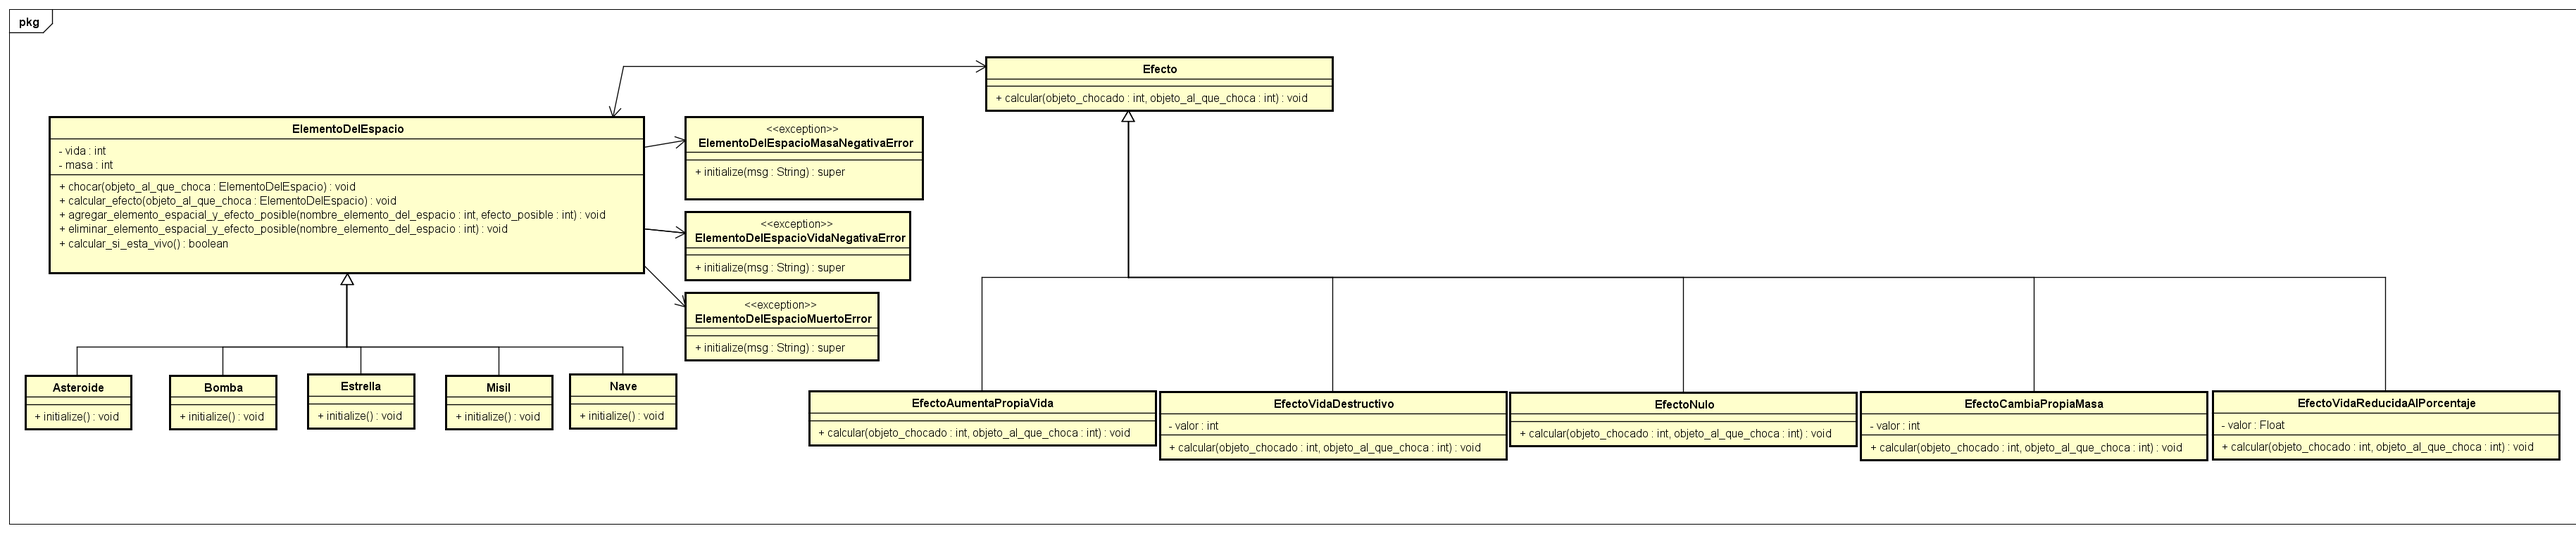
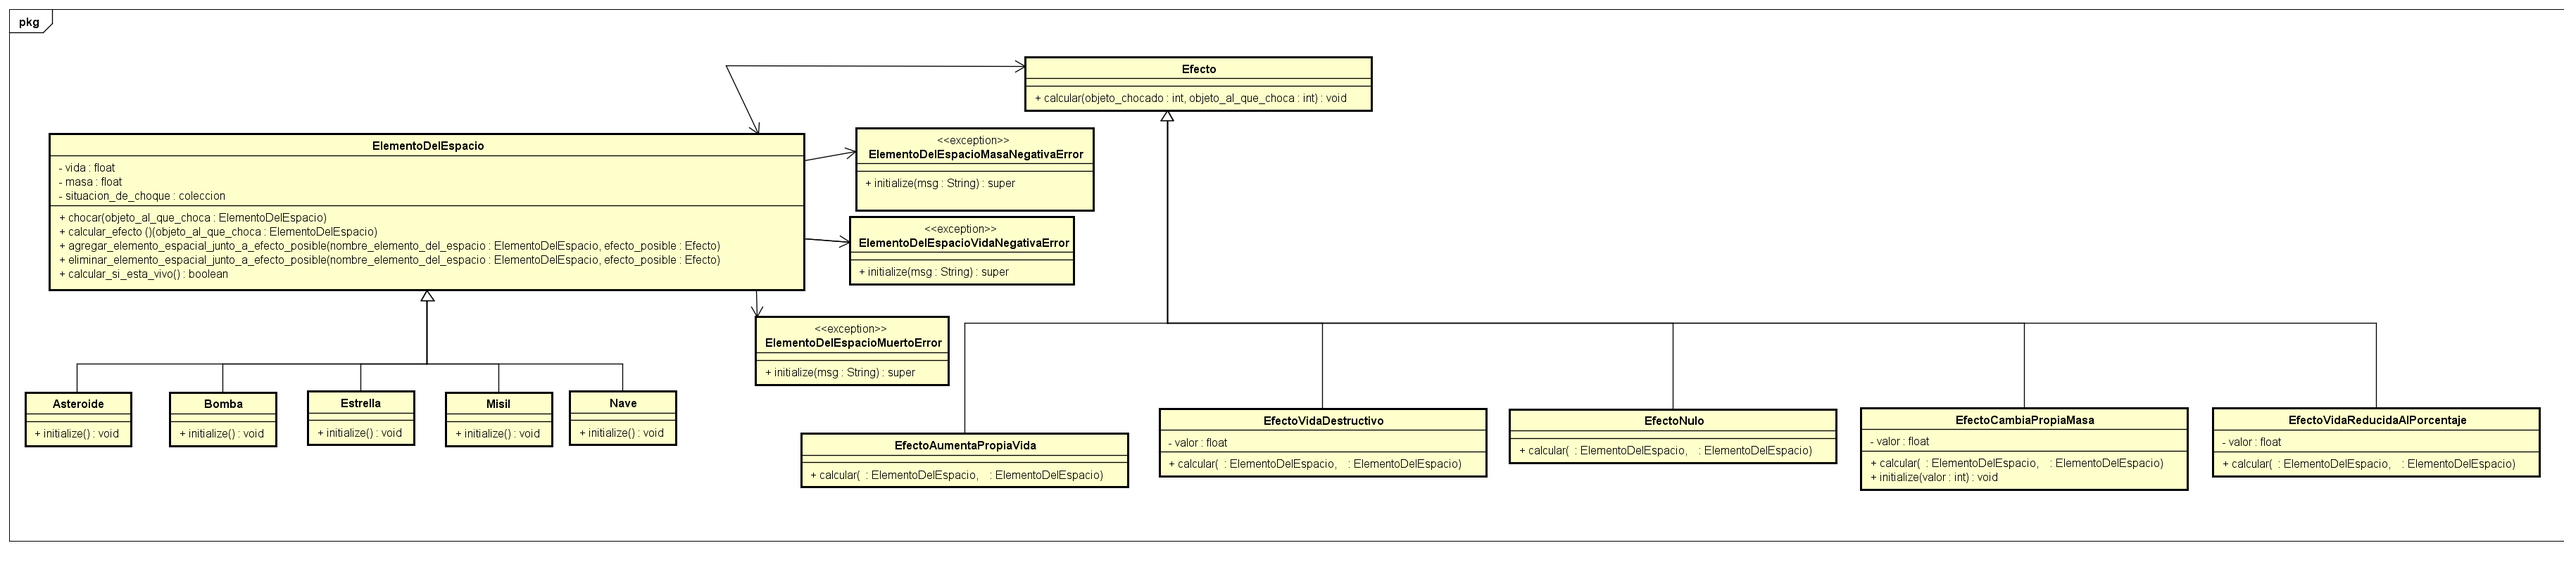
actualizando readme

Changed region(s): [[0.0, 0.0917, 1.0, 0.8866], [0.0, 0.9478, 1.0, 0.9783], [0.0, 0.0306, 0.031, 0.0611]]

diff --git a/model/dominio/elemento_del_espacio.rb b/model/dominio/elemento_del_espacio.rb
@@ -71,4 +71,9 @@ class ElementoDelEspacio
       @situacion_de_choque.delete(nombre_elemento_del_espacio)
     end
   end
+
+  def agregar_a_situacion_de_choque (clase, efecto)
+    @situacion_de_choque.store(clase,efecto)
+  end
+
 end

diff --git a/Revision.md b/Revision.md
@@ -58,7 +58,11 @@ La principal desventaja que le veo a esta solucion es que si yo agrego un nuevo 
 cada tipo de elemento para que lo reconozcan, por lo que tendria que tocar todas las clases. Ademas se puede dar la situacion de que uno lo
 agregue y otro no, por lo que habria una inconsistencia, porque algunos elementos lo conocerian a ese nuevo elemento y otros no.
 * Respuesta: Aceptado, se cambio el nombre. La sugerencia de extension me gusta mucho.
-Tengo en carpeta ese cambio.
+Se ha corroborado que el nuevo metodo en ElementoDelEspacio, agregar_elemento_espacial_junto_a_efecto_posible
+sirve y funciona correctamente para este fin. Se hizo la prueba con un nuevo elemento, Supernova.
+Lo que se tiene que hacer es (antes de chocar ambos elementos) agregar en tiempo de ejecucion el comportamiento esperado a la clase anterior, por ejemplo:
+supernova = Supernova.new (esta nueva clase va a tener que heredar de ElementoDelEspacio y tener su constructor)
+asteroide.agregar_elemento_espacial_junto_a_efecto_posible('Supernova',EfectoNulo.new)
 
 ##Segunda parte revision de codigo. Martes 28 2:10 horas
 
@@ -77,7 +81,7 @@ class MyCrazyError < StandardError
 end"
 
 -Observacion 17: Los distintos tipo de ObjetoEspacial no tienen metodos, solo tienen el constructor.
-* Respuesta: Viendo la observacion...
+* Respuesta: Aceptado, pero por mas que intente, no veo la necesidad de agregar nada, ya que solo utilizo el constructor para pre cargar todos los efectos conocidos de choques, por ahora solo eso es necesario.
 
 -Observacion 18: Las clases estan sueltas en una unica carpeta. Se podrian agrupar segun algun criterio para facilitar su comprension.
 * Respuesta: Aceptado, se crean subcarpetas de dominio, efectos y excepciones
@@ -101,4 +105,4 @@ Lo que significa que Ruby no soporta el clonado o duplicado de variables tipo nu
 		-En el efecto EfectoCambiaPropiaMasa el valor deberia ser un float, ya que en el codigo se usa de esa forma. 
 		-Falta el atributo situacion_de_choque
 		-Aclaracion: a pesar de que ruby es un lenguaje en el que no se aclaran los tipos, y que estos haya que ponerlos debido a que 			el astah te obliga a poner cosas pertenecientes a los lenguajes tipados, pienso entonces que en el tipo que te obliga a poner 			el astah se indique que tipo de clase es el que esperamos que este en ese lugar. 
-
+* Respuesta: Aceptadas y corregidas las observaciones.
